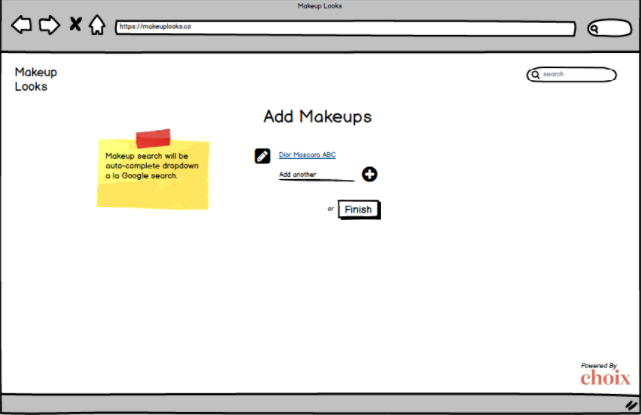
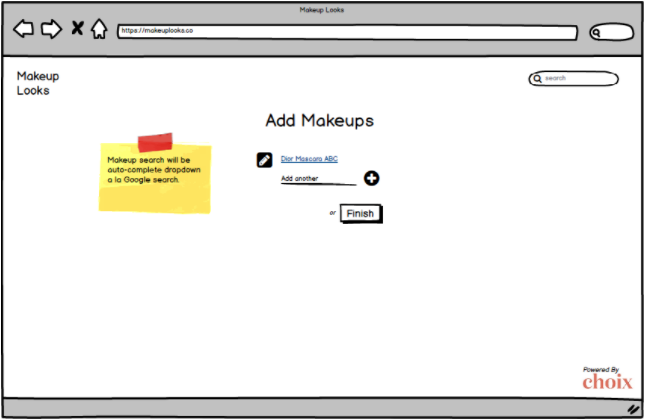
makeuplooks.co

diff --git a/b2c/makeup_looks.md b/b2c/makeup_looks.md
@@ -1,0 +1,58 @@
+_This is an ongoing project that began in May, 2016, and is projected to finish November 2016_.
+
+### Description
+Utilitarian platform for makeup lovers to discover and share makeup looks, powered by Choix.
+
+### Market Insights
+Searching YouTube for specific tutorials requires patience and filtering noise. Makeup Looks will exclusively serve the beauty market and practice admin-side curation to control the quality of content.
+
+### Features
+* Import instantly from YouTube (MVP: individual video // v2.0: entire channel of videos, as a loop)
+*Up/down voting to lend basic curation to crowd-sourcing
+* Commenting via Disqus.com
+* Authentication with scoping for makeup artists (add videos) && makeup lovers (save tutorials)
+* Elastic search (ideally, fuzzy search via algolia.com)
+* Auto-complete integration with major makeup SKUs (example API for consumer-packaged goods)
+
+### Wireframes
+Landing page. Not shown: two folds ie Featured / Recent showcasing 3-4 columns of video thumbnails.
+
+![makeup looks lander](https://github.com/ryanckulp/feature_spec/raw/master/images/makeup_looks/makeup-looks-lander.png "Makeup Looks Landing Page")
+
+Discover / Search results page. Layout available in table (row) or visual grid (panel) format. If search input provided, sort with Algolia. If none provided, sort by Popularity / Recency / Difficulty / Completion Time.
+
+![makeup looks discover](https://github.com/ryanckulp/feature_spec/raw/master/images/makeup_looks/makeup-looks-search.png "Makeup Looks Search Results")
+
+Individual ‘look’ page, embedded YouTube video (we won’t host the actual content) and links to makeup, comments, etc. Rely heavily on YouTube API but also track page views for “hotness” via Impressionist.
+
+IF the makeup product (via barcode/sku) exists on the Choix store, link there. Else, link to Amazon. Perhaps just link to an executed search on Amazon, vs the actual product page.
+
+In the case a makeup SKU/UPC can’t be found, allow user to type one in. This will simply yield plain text on a Tutorial/Look page, until an Admin adds additional fields (ie avatar, URL to point to, etc).
+
+![makeup looks page](https://github.com/ryanckulp/feature_spec/raw/master/images/makeup_looks/makeup-looks-individual-look.png "Makeup Looks Individual Look")
+
+Add a look, step 1 of 3. Input link to video, description, and tagging for advanced search filters.
+
+![makeup looks add look](https://github.com/ryanckulp/feature_spec/raw/master/images/makeup_looks/makeup-looks-add-look.png "Makeup Looks add a Look")
+
+Step 2 of 3, add makeups one at a time via auto-complete search.
+
+![makeup looks add look](https://github.com/ryanckulp/feature_spec/raw/master/images/makeup_looks/makeup-looks-add-makeup.png)
+
+Step 3 of 3, after adding all the products for a given look, click ‘Finish’ and get redirected to the Look page.
+
+![makeup looks add look](https://github.com/ryanckulp/feature_spec/raw/master/images/makeup_looks/makeup-looks-add-makeups.png)
+
+**Profile Page**
+
+Vanity URL (default: /{first}-{last}) with similar structure as Tutorial / Look page. Prefer inline editing for this page, ie click a section to change details, vs a separate edit page UI.
+
+![makeup looks profile page](https://github.com/ryanckulp/feature_spec/raw/master/images/makeup_looks/makeup-looks-profile-page.png)
+
+Clicking a dashboard widget renders Tutorials, Favorites, and Products associated with that user. The ‘Videos/Tutorials’ and ‘Favorites’ page should use the same elements as Browsing videos.
+
+![makeup looks profile page](https://github.com/ryanckulp/feature_spec/raw/master/images/makeup_looks/makeup-looks-tutorials-favorites.png)
+
+Finally, the Products page loops through all the [unique] products that the User has identified in their Tutorial videos.
+
+![makeup looks all makeups](https://github.com/ryanckulp/feature_spec/raw/master/images/makeup_looks/makeup-looks-user-makeups.png)
